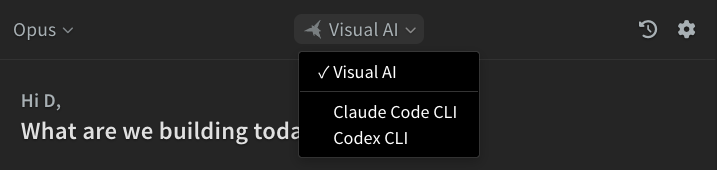
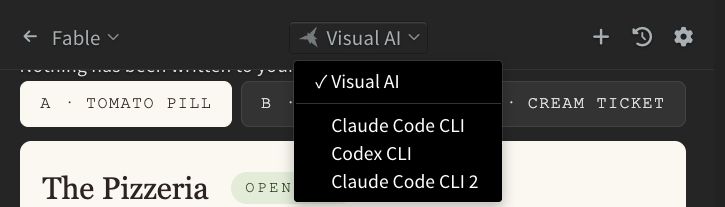
docs: document cli sessions, thinking effort and usage history deletion

diff --git a/docs/03-AI/06-ai-cli.md b/docs/03-AI/06-ai-cli.md
@@ -28,7 +28,7 @@ The terminal appears in the panel once the CLI is up, and the header changes to 
 
 ![Claude Code CLI running in the panel](../images/pro/ai-cli-terminal.png "Claude Code CLI in the AI panel")
 
-Both CLIs can run at the same time, and they keep running while you look at the other one, at Visual AI, or at another sidebar tab. A green dot on the row marks a running CLI. When a CLI finishes a turn while you are looking at something else, a notification says it is done. Click it to go to the session.
+Both CLIs can run at the same time, and they keep running while you look at the other one, at Visual AI, or at another sidebar tab. A green dot on the row marks a running CLI. When a CLI finishes a turn while you are looking at something else, a notification says it is done. Click **View chat** to go to the session.
 
 > Free users can still run the CLIs from the bottom Terminal panel. Pick a CLI row and click **Open in Terminal**. The CLI then runs on its own, without the Phoenix Code connection.
 
@@ -47,6 +47,16 @@ Click it to open the setup dialog:
 
 The saved path is shown in [AI Settings](./09-ai-models-providers.md#settings). Clear it to go back to automatic detection. If the saved path stops working, the dialog opens again with a **Detect automatically instead** link.
 
+### Running Several Sessions
+
+You can run more than one session of the same CLI, for example one per task. Click **+ Add CLI session** above the rows and pick a CLI. The new session gets its own row, named like **Claude Code CLI 2**. Click the row to start it.
+
+![Several CLI sessions](../images/pro/ai-cli-sessions.png "An added Claude Code CLI session, with its row menu open")
+
+Click the **three-dot** button on a row to rename the session, stop it, or remove its row. Removing a running session stops it too. The sessions are also listed by name in the dropdown in the panel header, and the [Ask AI](./05-ai-ask.md#sending-to-a-cli) dialog sends to the one you are looking at.
+
+> Added sessions and their names last until you close Phoenix Code.
+
 ## Connected to Phoenix
 
 The **plug** icon in the header shows the connection. Green means the CLI is connected. Click it to see what the connection gives the CLI, and to turn it off or on for this session:
@@ -56,8 +66,8 @@ The **plug** icon in the header shows the connection. Green means the CLI is con
 While connected, the CLI:
 
 - Receives a line with every prompt that names the file you are editing, which open files have unsaved changes, and what the Live Preview shows while it is open.
-- Can take screenshots of the editor and the Live Preview, run JavaScript in the page, resize the preview, read lint problems, search your unsaved text, open files and move the cursor, change editor settings, search Unsplash and save photos into the project, show notifications, and ask you questions inside the Live Preview. These appear in the terminal as `phoenix-editor` tools.
-- Works on what you see. Before the CLI reads or edits a file with its own file tools, Phoenix Code saves your unsaved changes to it. Edits made with shell commands skip this. After the CLI edits a file, the open document updates. If you typed in that file in the meantime, Phoenix Code asks which version to keep, and the CLI stays out of that file until you save or close it.
+- Can take screenshots of the editor and the Live Preview, run JavaScript in the page, resize the preview, read lint problems, search your unsaved text, open files and move the cursor, change editor settings, search Unsplash and save photos into the project, show notifications, and ask you questions inside the Live Preview or with an interactive card in the panel. These appear in the terminal as `phoenix-editor` tools.
+- Works on what you see. Before the CLI reads or edits a file with its own file tools, Phoenix Code saves your unsaved changes to it. Edits made with shell commands skip this. After the CLI edits a file, the open document updates. If you typed in that file in the meantime, Phoenix Code asks which version to keep.
 
 Nothing is written into your project or into the CLI's own configuration. The connection is set up for the session and removed when it ends.
 

diff --git a/docs/03-AI/08-ai-usage.md b/docs/03-AI/08-ai-usage.md
@@ -29,7 +29,7 @@ Click the card, or **Details**, to open the breakdown:
 
 ![Usage details](../images/pro/ai-usage-details.png "The usage details for the last 30 days")
 
-- The headline figures show spend, tokens, and active days for the period. Hover a figure to see the split by kind of token.
+- The headline figures show spend, tokens, and active days for the period. Hover a figure, or a model row, to see the split by kind of token.
 - The bars show each day, split by model. Hover a bar or a heat map cell for that day's numbers.
 - **Top models** lists the top five models by spend, or by tokens when **Show $ cost** is off. Click **See more** for the rest.
 - **Activity** shows your longest streak, active days, and the average per active day.
@@ -37,7 +37,13 @@ Click the card, or **Details**, to open the breakdown:
 
 The **reload** button *(circular arrow)* fetches the latest figures, for example after a chat in another Phoenix Code window or on another computer.
 
-The card counts every Visual AI turn, and the API calls of [CLI sessions](./06-ai-cli.md) started from the panel with the Phoenix connection on, listed as `cli-` models. Usage belongs to your Phoenix Code account, so chats from every computer you sign in on are counted.
+The card counts every Visual AI turn, and the API calls of [CLI sessions](./06-ai-cli.md) started from the panel with the Phoenix connection on, listed as `cli-` models. Codex usage on its Fast and Ultrafast tiers is listed on its own, since it is priced differently. Usage belongs to your Phoenix Code account, so chats from every computer you sign in on are counted.
+
+### Deleting Usage History
+
+Click **Delete history** at the bottom of the details to remove your usage and cost records for the past 24 hours, week, month, or all time. Your chats are kept. This cannot be undone.
+
+![Delete usage history](../images/pro/ai-usage-delete.png "The Delete usage history dialog")
 
 ## Free Account Limits
 

diff --git a/docs/03-AI/index.md b/docs/03-AI/index.md
@@ -29,11 +29,12 @@ The panel gives you three assistants to choose from. Pick one on the start scree
 
 - **[Chat about your project](./02-ai-chatting.md)**: The AI knows which file you are in, what you have selected, and what the Live Preview shows. Attach files, folders, and screenshots for more context.
 - **[Ask about an element](./05-ai-ask.md)**: Click **Ask AI** on a selected element, a Markdown selection, or a code selection. A screenshot and the source location go along with your question.
+- **[See options, not just text](./02-ai-chatting.md#interactive-replies)**: The AI can reply with mockups, buttons, and controls you can try right in the chat.
 - **[Decide how much it can do](./03-ai-permission-modes.md)**: Four permission modes, from a plan you approve first to full autonomy.
 - **[Review and undo changes](./04-ai-reviewing-changes.md)**: Every edit shows a diff. Roll back any response with **Undo** or **Restore to this point**.
 - **[Find photos](./07-ai-images.md)**: Ask for pictures and the AI searches Unsplash, shows the results in the chat, and adds the one you pick to the page.
 - **[Watch usage and cost](./08-ai-usage.md)**: Tokens and cost for the current chat, plus a usage calendar on the start screen.
-- **[Pick a model or provider](./09-ai-models-providers.md)**: Switch models mid-chat, or bring your own API key and endpoint.
+- **[Pick a model or provider](./09-ai-models-providers.md)**: Switch models mid-chat, set how hard the model thinks, or bring your own API key and endpoint.
 
 ## In This Section
 

diff --git a/docs/03-AI/09-ai-models-providers.md b/docs/03-AI/09-ai-models-providers.md
@@ -16,6 +16,14 @@ You can switch models in the middle of a chat. The new model takes over from you
 
 > The model dropdown belongs to Visual AI. In a CLI session, pick the model inside the CLI.
 
+## Thinking Effort
+
+Some models can think more or less before they answer. For these, a **bulb** chip sits next to the permission mode at the bottom of the panel. Click it to pick a level, from **Low** for quick, simple tasks to **Max** for hard problems that need deep reasoning. Higher levels take longer and use more tokens. **Default** leaves the choice to the model.
+
+![Thinking effort](../images/pro/ai-effort.png "The thinking effort chip and its slider")
+
+The levels offered depend on the selected model, and your choice is remembered per model. The chip is not shown for models without this setting, or when a provider with a custom endpoint is active.
+
 ## Settings
 
 Click the **gear** button in the panel header, or the **AI Settings** link on the start screen, to open the settings dialog.
